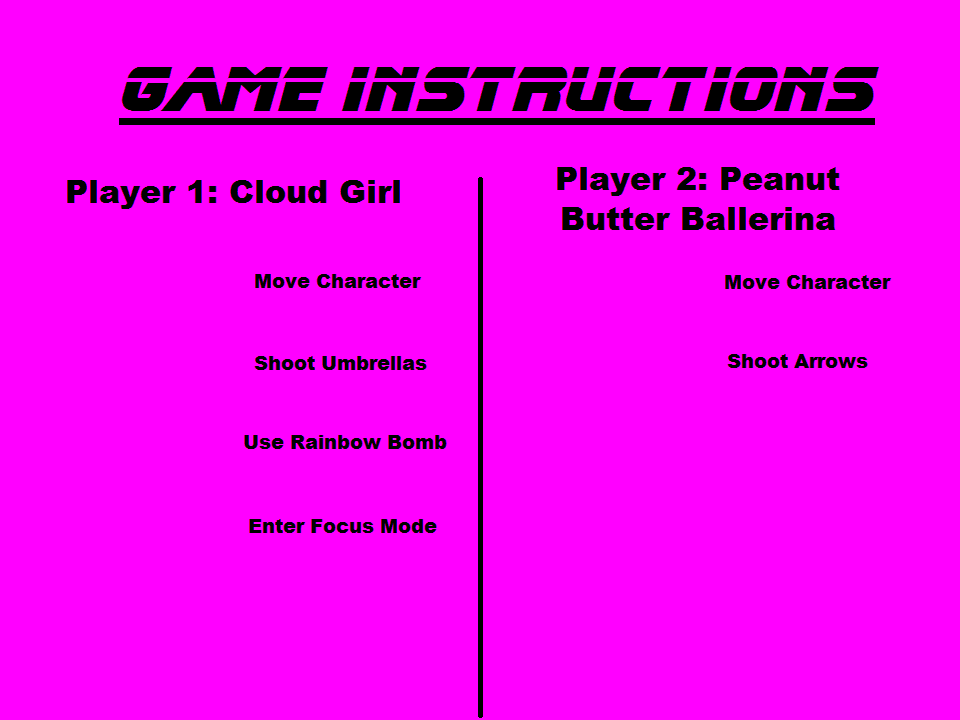
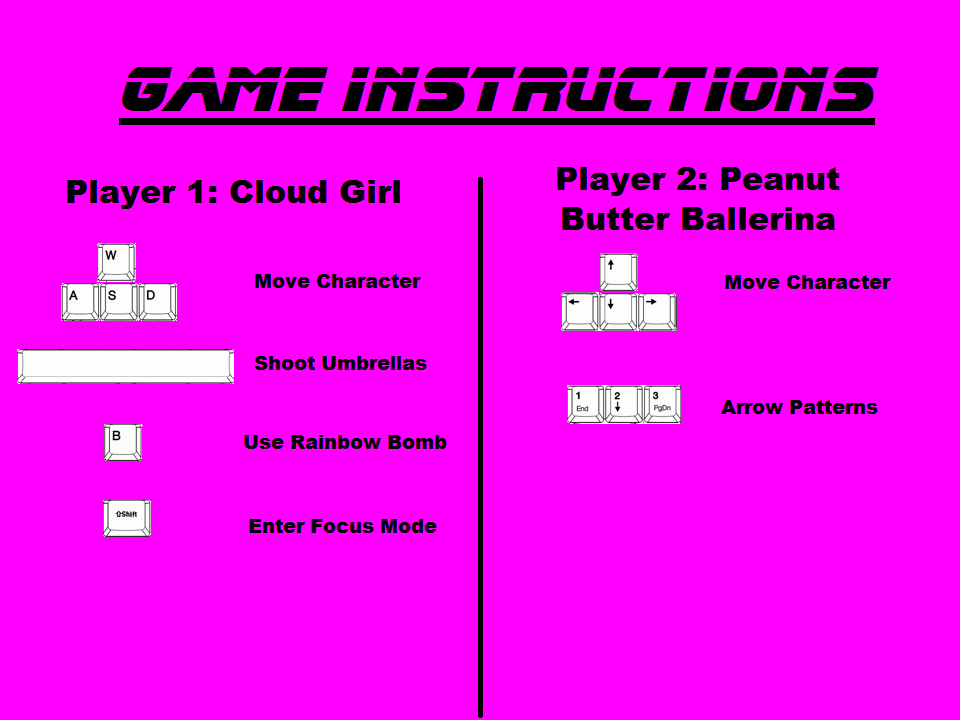
New controls given

diff --git a/STG/STG/Player.cs b/STG/STG/Player.cs
@@ -463,7 +463,7 @@ namespace STG
                     }
 
                     //going in and out of focus mode
-                    if (keyboard.IsKeyDown(Keys.Enter))
+                    if (keyboard.IsKeyDown(Keys.LeftShift))
                     {
                         speed = SPEED * (2 / 5.0f);
                         maxRotation = 0;
@@ -475,7 +475,7 @@ namespace STG
                             }
                         inFocus = true;
                     }
-                    else if (keyboard.IsKeyUp(Keys.Enter))
+                    else if (keyboard.IsKeyUp(Keys.LeftShift))
                     {
                         speed = SPEED;
                         maxRotation = .2f;
@@ -494,15 +494,15 @@ namespace STG
                         rotation -= 0.05f;
 
                     //movement
-                    if ((keyboard.IsKeyDown(Keys.Left) && keyboard.IsKeyDown(Keys.Up)
-                        || keyboard.IsKeyDown(Keys.Left) && keyboard.IsKeyDown(Keys.Down)
-                        || keyboard.IsKeyDown(Keys.Up) && keyboard.IsKeyDown(Keys.Right)
-                        || keyboard.IsKeyDown(Keys.Right) && keyboard.IsKeyDown(Keys.Down))
+                    if ((keyboard.IsKeyDown(Keys.A) && keyboard.IsKeyDown(Keys.W)
+                        || keyboard.IsKeyDown(Keys.A) && keyboard.IsKeyDown(Keys.S)
+                        || keyboard.IsKeyDown(Keys.W) && keyboard.IsKeyDown(Keys.D)
+                        || keyboard.IsKeyDown(Keys.D) && keyboard.IsKeyDown(Keys.S))
                         && (speed == SPEED || speed == SPEED * (2 / 5.0f)))
                         speed = (float)(speed / Math.Sqrt(2));
-                    
 
-                    if (keyboard.IsKeyDown(Keys.Left) && pos.X - (sprite.Width / 2) + 20 > MainGame.PlayingArea.X)
+
+                    if (keyboard.IsKeyDown(Keys.A) && pos.X - (sprite.Width / 2) + 20 > MainGame.PlayingArea.X)
                     {
                         pos.X -= speed;
 
@@ -510,11 +510,11 @@ namespace STG
                             rotation -= 0.05f;
                     }
 
-                    if (keyboard.IsKeyDown(Keys.Down) && pos.Y + sprite.Height / 2 < MainGame.PlayingArea.Y + MainGame.PlayingArea.Height)
+                    if (keyboard.IsKeyDown(Keys.S) && pos.Y + sprite.Height / 2 < MainGame.PlayingArea.Y + MainGame.PlayingArea.Height)
                         pos.Y += speed;
 
 
-                    if (keyboard.IsKeyDown(Keys.Right) && pos.X + (sprite.Width / 2) - 20 < MainGame.PlayingArea.X + MainGame.PlayingArea.Width)
+                    if (keyboard.IsKeyDown(Keys.D) && pos.X + (sprite.Width / 2) - 20 < MainGame.PlayingArea.X + MainGame.PlayingArea.Width)
                     {
                         
                         pos.X += speed;
@@ -523,7 +523,7 @@ namespace STG
                             rotation += 0.05f;
                     }
 
-                    if (keyboard.IsKeyDown(Keys.Up) && pos.Y - sprite.Height / 2 > MainGame.PlayingArea.Y)
+                    if (keyboard.IsKeyDown(Keys.W) && pos.Y - sprite.Height / 2 > MainGame.PlayingArea.Y)
                         pos.Y -= speed;
 
                     if (pos.X - (sprite.Width / 2) + 20 <= MainGame.PlayingArea.X || pos.X + (sprite.Width / 2) - 20 >= MainGame.PlayingArea.X + MainGame.PlayingArea.Width)
@@ -531,7 +531,7 @@ namespace STG
                     else
                         againstWall = false;
 
-                    if ((!keyboard.IsKeyDown(Keys.Left) && !keyboard.IsKeyDown(Keys.Right)) || againstWall == true || ((keyboard.IsKeyDown(Keys.Left) == true) && (keyboard.IsKeyDown(Keys.Right) == true)))
+                    if ((!keyboard.IsKeyDown(Keys.A) && !keyboard.IsKeyDown(Keys.D)) || againstWall == true || ((keyboard.IsKeyDown(Keys.A) == true) && (keyboard.IsKeyDown(Keys.D) == true)))
                     {
                         if (rotation < 0)
                             rotation += 0.05f;
@@ -541,17 +541,17 @@ namespace STG
 
 
                     //shootin
-                    if (keyboard.IsKeyDown(Keys.NumPad1) && mainCooldown == 0)
+                    if (keyboard.IsKeyDown(Keys.Space) && mainCooldown == 0)
                     {
                         MainGame.ObjectManager.Add(new Bullet(MainGame.SpriteDict["umbrellaBullet"], new Vector2(Position.X, Position.Y - 20), 20, 270, 0, this, null));
                         mainCooldown = 5;
                     }
-                    if (keyboard.IsKeyDown(Keys.D0) && optionCooldown == 0)
+                    if (keyboard.IsKeyDown(Keys.B) && optionCooldown == 0)
                     {
                         MainGame.ObjectManager.Add(new Bomb(MainGame.SpriteDict["bombRad"], new Vector2(Position.X, Position.Y), 5));
                         optionCooldown = 200;
                     }
-                    if (keyboard.IsKeyDown(Keys.NumPad1) && optionCooldown == 0)
+                    if (keyboard.IsKeyDown(Keys.Space) && optionCooldown == 0)
                     {
                         if (inFocus == false)
                             foreach (Option option in options)
@@ -570,13 +570,13 @@ namespace STG
 
                 case PlayerNum.Two:
                     //movement
-                    if (keyboard.IsKeyDown(Keys.A) && pos.X - sprite.Width / 2 > MainGame.PlayingArea.X)
+                    if (keyboard.IsKeyDown(Keys.Left) && pos.X - sprite.Width / 2 > MainGame.PlayingArea.X)
                         pos.X -= speed;
-                    if (keyboard.IsKeyDown(Keys.S) && pos.Y + sprite.Height / 2 < MainGame.PlayingArea.Y + MainGame.PlayingArea.Height / 2)
+                    if (keyboard.IsKeyDown(Keys.Down) && pos.Y + sprite.Height / 2 < MainGame.PlayingArea.Y + MainGame.PlayingArea.Height / 2)
                         pos.Y += speed;
-                    if (keyboard.IsKeyDown(Keys.D) && pos.X + sprite.Width / 2 < MainGame.PlayingArea.X + MainGame.PlayingArea.Width)
+                    if (keyboard.IsKeyDown(Keys.Right) && pos.X + sprite.Width / 2 < MainGame.PlayingArea.X + MainGame.PlayingArea.Width)
                         pos.X += speed;
-                    if (keyboard.IsKeyDown(Keys.W) && pos.Y - sprite.Height / 2 > MainGame.PlayingArea.Y)
+                    if (keyboard.IsKeyDown(Keys.Up) && pos.Y - sprite.Height / 2 > MainGame.PlayingArea.Y)
                         pos.Y -= speed;
 
                     //shootin
@@ -590,9 +590,6 @@ namespace STG
 
                     break;
             }
-
-            if (keyboard.IsKeyDown(Keys.B))
-                angle = angle;
 
             base.Update();
         }
